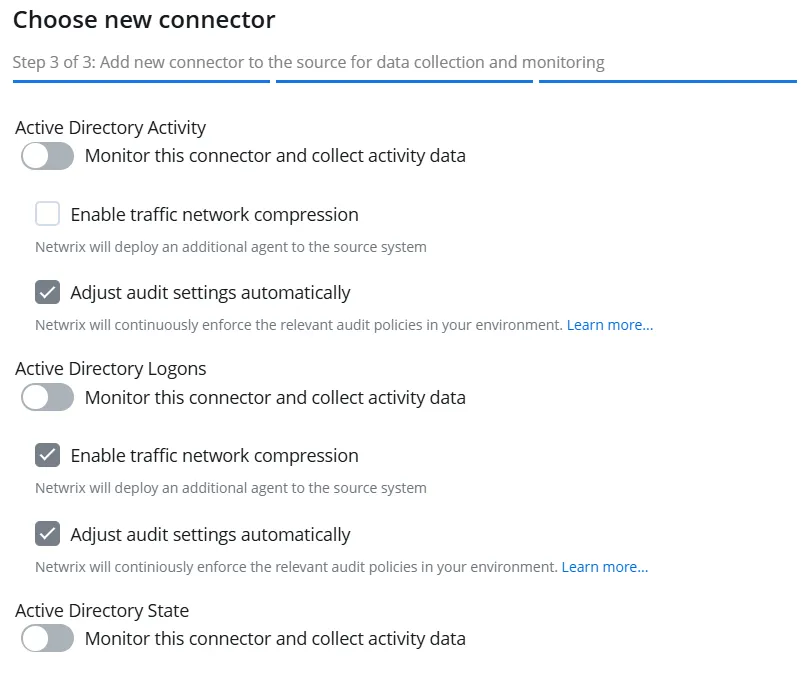
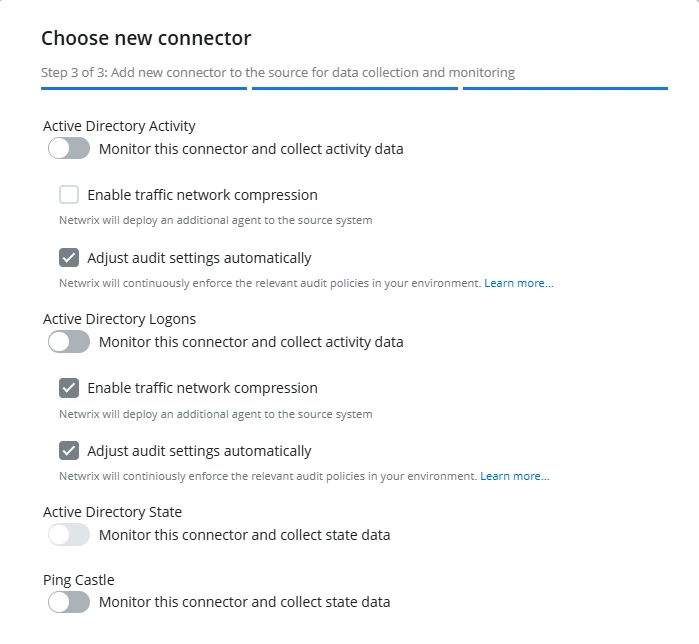
Update 1Secure documentation to contain PingCastle risk assessment details

Changed region(s): [[0.0, 0.2795, 0.7811, 0.9627], [0.0, 0.0, 0.9914, 0.2484]]

diff --git a/docs/1secure/admin/riskprofiles/riskassessmentdashboard.md b/docs/1secure/admin/riskprofiles/riskassessmentdashboard.md
@@ -100,10 +100,12 @@ The following cards are available for filtering data:
 
 The following drop-down menus are available for filtering data:
 
-- Category – Select a category from the drop-down menu. The Risks list is filtered to display risk
-  metrics that belong to the selected category. The risk profile associated with the organization
-  includes risk metrics, and each metric is assigned a category. By default, _All Categories_ is
-  selected. Other options are:
+- Risks - Select the Risk source from the drop-down menu. By default, _All Risks_ is selected.
+Other options are:
+    - PingCastle
+
+- Category – Select a category from the drop-down menu. The Risks list is filtered to display risk metrics that belong to the selected category. The risk profile associated with the organization includes risk metrics, and each metric is assigned a category. By default, _All Categories_ is selected.
+Other options are:
 
     - Data
     - Identity
@@ -232,11 +234,11 @@ The left pane displays the following details for an enumerated risk:
 
 - Description – A description of the risk metric
 - NIST Regulations – Displays the NIST regulation names associated with the risk metric
-- Open Report – Click this button to navigate to the State In Time Risk Reports page, where you can
-  view a detailed report for that risk metric. See the
-  [State In Time Risks Reports](/docs/1secure/admin/searchandreports/stateintime.md) topic for additional
-  information.
-- Remediate – On clicking this button, the Remediate `<risk name>` pane is displayed, which provides
+- View - A drop-down menu with three potential options:
+
+  - Open Report – Click this button to navigate to the State In Time Risk Reports page, where you can view a detailed report for that risk metric. See the [State In Time Risks Reports](/docs/1secure/admin/searchandreports/stateintime.md) topic for additional information.
+  - Export PingCastle report - Click this button to navigate to the full PingCastle HTML report to review the details of the specific risk and all other PingCastle risks. This option is only available on risks from the PingCastle data source.
+  - Remediate – On clicking this button, the Remediate `<risk name>` pane is displayed, which provides
   AI-generated step-by-step guidance to help you remediate the risk.
 - Edit risk settings – Click this link to navigate to the Risk Profiles page where you can manage
   the risk profiles. See the [Manage Risk Profiles](/docs/1secure/admin/riskprofiles/riskprofiles.md) topic for additional

diff --git a/docs/1secure/admin/organizations/sourcesandconnectors/activedirectory.md b/docs/1secure/admin/organizations/sourcesandconnectors/activedirectory.md
@@ -84,6 +84,7 @@ Directory. Specufy the following:
   monitor data for this connector. With this, you can generate state-in-time reports on Active
   Directory data. See the [State In Time Risks Reports](/docs/1secure/admin/searchandreports/stateintime.md) topic
   for additional information.
+- Ping Castle - Toggle the **Ping Castle** switch to ON to collect data for this connector. With this, you can generate risks from the Ping Castle collector and generate the full PingCastle report.
 
 **Step 10 –** Optionally, select the following for each connector:
 
